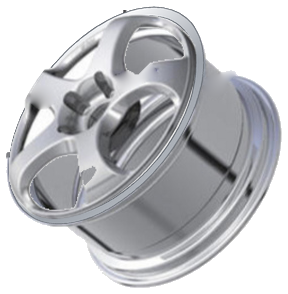
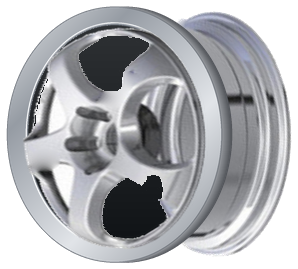
Show a near-front one-piece wheel for single-piece forging
Claude-Session: https://claude.ai/code/session_01SYhocdxNsLbwS7KWK8BqKg

diff --git a/index.html b/index.html
@@ -473,7 +473,7 @@ button:focus-visible { outline: 3px solid var(--accent); outline-offset: 2px; }
   const cbChips = document.getElementById("cb-chips");
   CB_PRESETS.forEach(v => cbChips.append(chip("cb-preset", v, v.toFixed(1), v === state.cb)));
   const forgeChips = document.getElementById("forge-chips");
-  const FORGE_IMAGES = { mono: "單片鍛造分解圖：一體成形的鋁圈", two: "雙片鍛造分解圖：輪面與輪桶", three: "三片鍛造分解圖：外唇、輪面與內桶" };
+  const FORGE_IMAGES = { mono: "單片鍛造：一體成形的鋁圈，接近正面的視角", two: "雙片鍛造分解圖：輪面與輪桶", three: "三片鍛造分解圖：外唇、輪面與內桶" };
   FORGES.forEach(f => {
     const c = chip("forge", f.id, f.name, f.id === state.forge);
     c.classList.add("forge-chip");
@@ -490,7 +490,7 @@ button:focus-visible { outline: 3px solid var(--accent); outline-offset: 2px; }
     const img = document.createElement("img");
     img.className = "diagram"; img.src = "images/forge-" + f.id + ".png";
     img.alt = FORGE_IMAGES[f.id];
-    [img.width, img.height] = { mono: [288, 294], two: [346, 337], three: [346, 337] }[f.id];
+    [img.width, img.height] = { mono: [298, 269], two: [346, 337], three: [346, 337] }[f.id];
     img.decoding = "async"; img.draggable = false;
     c.querySelector("span").prepend(img);
     forgeChips.append(c);

diff --git a/AGENTS.md b/AGENTS.md
@@ -18,7 +18,7 @@ No build step, dependencies, or test framework. Preview locally with `python3 -m
 - Spec code format: `{size}x{J}J {PCD} ET{ET} CB{CB}`, for example `18x8.5J 5H114.3 ET35 CB73.1`.
 - Positive ET moves the mounting face toward the outer face, so the wheel sits further inward.
 - Define colors as CSS custom properties with light and dark values; avoid literal colors in component rules.
-- Do not add third-party product photos or brand logos without a license. The app icons in `icons/` are cropped from an INCURVE wheel photo that the repository owner supplied and confirmed they are licensed to use. The forging diagrams in `images/forge-*.png` are edited from a two-piece wheel diagram the owner supplied and confirmed they are licensed to use (labels and brand text removed; the one-piece and three-piece versions are composites).
+- Do not add third-party product photos or brand logos without a license. The app icons in `icons/` are cropped from an INCURVE wheel photo that the repository owner supplied and confirmed they are licensed to use. The forging diagrams in `images/forge-*.png` are edited from a two-piece wheel diagram the owner supplied and confirmed they are licensed to use (labels and brand text removed; the one-piece version is re-composed from the same face and barrel at a near-front angle, and the three-piece version adds a drawn outer lip).
 
 ## Commits
 
